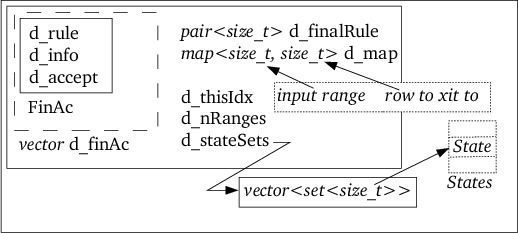
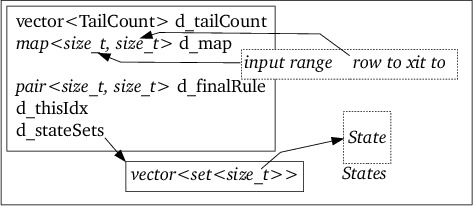
Removed SF data members from DFARow and Rules, WIP on the docs

Changed region(s): [[0.0, 0.0, 1.0, 1.0], [0.2664, 0.5534, 0.296, 0.5825]]

diff --git a/flexc++/dfarow/dfarow.h b/flexc++/dfarow/dfarow.h
@@ -25,26 +25,25 @@ class DFARow
     typedef std::vector<StateSet> StateSetVector;   // a set of states per
                                                     // input symbol
 
-    std::vector<TailCount> d_tailCount;       // acc counts for LOP rules
-
-    std::pair<size_t, size_t> d_finalRule;      // Final state for which 
-                                                // rule(s)?
+    std::vector<TailCount> d_tailCount;         // tail counts for LOP rules
 
     std::unordered_map<size_t, size_t> d_map;   // Relate input symbols (key) 
                                                 // to the row to transit to 
                                                 // (value)
 
-    States *d_states;                       // using ptrs so no op= needs
-                                            // to be implemented
+    std::pair<size_t, size_t> d_finalRule;      // Final state for which 
+                                                // rule(s)?
+    size_t d_thisIdx;                           // this row's index in the DFA
+
+    // pointers to the outside world (using ptrs so no op= is required)
+
+    States *d_states;
 
     StateSetVector *d_stateSets;            // For each DFArow the indices 
                                             // of the States used for this
                                             // DFArow.
     Rules *d_rules;
     Ranges *d_ranges;
-
-    size_t d_thisIdx;                       // row index in the DFA
-    size_t d_nRanges;
 
     public:
         typedef std::unordered_map<size_t, size_t>::value_type MapValue;

diff --git a/flexc++/dfarow/tabulatefinals.cc b/flexc++/dfarow/tabulatefinals.cc
@@ -17,42 +17,6 @@ void DFARow::tabulateFinals(Table &table) const
         out << second;
 
     table << out.str();
-
-//    auto firstRule = d_tailCount.end();
-//
-//    for         // find the first final rule
-//    (
-//        auto iter = d_tailCount.begin(), end = d_tailCount.end(); 
-//            iter != end;
-//                ++iter
-//    )
-//    {
-//        if (iter->final())
-//        {
-//            firstRule = iter;
-//            break;
-//        }
-//    }
-//
-//    if (firstRule == d_tailCount.end())
-//        table << ' ';
-//    else
-//    {
-//        ostringstream out;
-//        if 
-//        (
-//            firstRule->final() == 0 
-//            ||
-//            firstRule->inc()
-//            || 
-//            firstRule->final()
-//        )
-//            out << firstRule->rule();
-//        else if (firstRule->final() > 0) 
-//            out << firstRule->rule() << ':' << firstRule->final();
-//
-//        table << out.str();
-//    }
 }
 
 

diff --git a/flexc++/rules/rules.h b/flexc++/rules/rules.h
@@ -23,11 +23,7 @@ class Rules
     std::vector<Rule> d_rules;
     std::unordered_map<size_t, size_t>  d_finalToRule;  // from FINAL state to
                                                         // Rule index
-
     StartConditions d_startConditions;
-
-    std::string d_source;               // source and line of a rule definition
-    size_t      d_lineNr;
 
     public:
         typedef StartConditions::const_iterator const_iterator;
@@ -35,7 +31,8 @@ class Rules
         typedef std::vector<Rule>::const_iterator rule_const_iterator;
 
         Rules(States &states);
-        void add(bool bol, spSemVal const &patternVal, Block const &block);
+        void add(bool bol, spSemVal const &patternVal, Block const &block,
+                 std::string const &fileName, size_t lineNr);
 
         Rule const &operator[](size_t idx) const;
         Rule &operator[](size_t idx);

diff --git a/flexc++/rules/add.cc b/flexc++/rules/add.cc
@@ -1,10 +1,11 @@
 #include "rules.ih"
 
-void Rules::add(bool bol, spSemVal const &patternVal, Block const &block)
+void Rules::add(bool bol, spSemVal const &patternVal, Block const &block,
+                string const &fileName, size_t lineNr)
 {
     Pair const &pair = SemVal::downCast<PatternVal>(*patternVal).pair();
 
-    d_rules.push_back( { d_states, bol, pair, block, d_source, d_lineNr } );
+    d_rules.push_back( { d_states, bol, pair, block, fileName, lineNr } );
 
     size_t ruleIdx = d_rules.size() - 1;
 

diff --git a/flexc++/dfarow/dfarow1.cc b/flexc++/dfarow/dfarow1.cc
@@ -5,11 +5,12 @@ DFARow::DFARow(Rules &rules,
                size_t thisRowIdx, Ranges &ranges)
 :
     d_finalRule(UINT_MAX, UINT_MAX),
+    d_thisIdx(thisRowIdx),
+
     d_states(&states),
     d_stateSets(&stateSets),
     d_rules(&rules),
-    d_ranges(&ranges),
-    d_thisIdx(thisRowIdx)
+    d_ranges(&ranges)
 {
     for_each(stateSets[thisRowIdx].begin(), stateSets[thisRowIdx].end(),
              FnWrap::unary(probeTailCount, *this));
